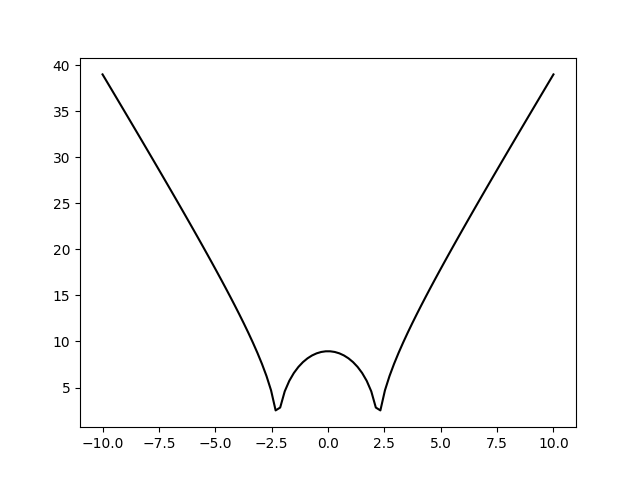
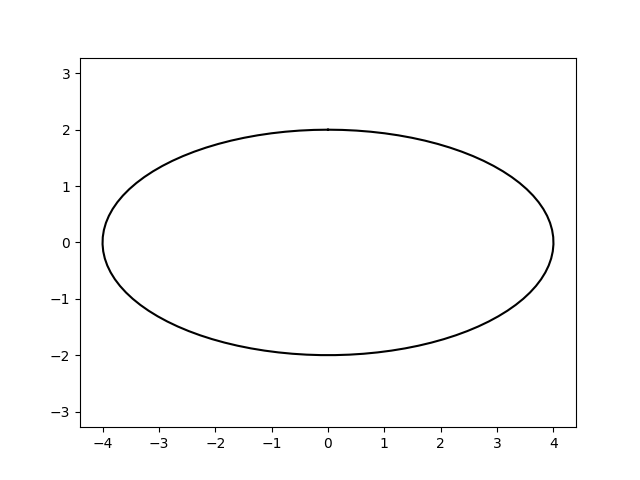
less6

diff --git a/task2.py b/task2.py
@@ -6,10 +6,10 @@ def hyper(x_min,x_max,N):
             polN = int(N/2)
             x1 = np.linspace(x_min, -0.01, polN)
             x2 = np.linspace(0.01, x_max, polN)
-            y = 1/x1
-            plt.plot(x1,y, color= 'k')
-            y = 1/x2
-            plt.plot(x2,y, color = 'k')
+            y1 = 1/x1
+            plt.plot(x1,y1, color= 'k')
+            y2 = 1/x2
+            plt.plot(x2,y2, color = 'k')
         elif (x_min >= 0) and (x_max != 0):
             if x_min != 0:
                 x = np.linspace(x_min, x_max, N)
@@ -38,9 +38,9 @@ def hyper(x_min,x_max,N):
 
 
 
-x_min = int(input('Введите X минимальное '))
-x_max = int(input('Введите X максимальное '))
-N = int(input('Введите количество точек '))
+x_min = int(input('Введите X минимальное ->  '))
+x_max = int(input('Введите X максимальное ->  '))
+N = int(input('Введите количество точек ->  '))
 
 
 

diff --git a/task3.py b/task3.py
@@ -1,10 +1,14 @@
 import matplotlib.pyplot as plt
 import numpy as np
+
 def ellips(x_min,x_max,N):
-       x = np.linspace(x_min, x_max, N)
-       y = abs((1-(x**2-a**2))*b**2)**0.5
+       m = np.linspace(0, 2*np.pi,N)
+       y = a * np.cos(m)
+       x = b * np.sin(m)
        plt.plot(x,y, color= 'k')
 a = 2
 b = 4
-ellips(-10,10,100)
+N = 100
+plt.axis('equal')
+ellips(a,b,N)
 plt.savefig('fig_3.png')

diff --git a/task4_4.py b/task4_4.py
@@ -1,0 +1,14 @@
+import matplotlib.pyplot as plt
+import numpy as np
+k = 1
+N = int(0.1)
+def rose(k,N):
+    u = np.linspace(0,8*np.pi,N)
+    r = np.sin(k*u)
+    x = r * np.cos(u)
+    y = r * np.sin(u)
+    plt.plot(x,y)
+        
+
+rose(k,N)
+plt.savefig('fig4_4.png')

diff --git a/task4_1.py b/task4_1.py
@@ -1,0 +1,12 @@
+import matplotlib.pyplot as plt
+import numpy as np
+k = 1
+b = 0.2
+N = 1000
+u = np.linspace(0, 8*np.pi,N)
+r = np.exp(b*u)
+x = r * np.cos(u)
+y = r * np.sin(u)
+
+plt.plot(x,y)
+plt.savefig('fig4_1.png')

diff --git a/task4_3.py b/task4_3.py
@@ -1,0 +1,11 @@
+import matplotlib.pyplot as plt
+import numpy as np
+k = 1
+N = 1000
+u = np.linspace(0.01, 8*np.pi,N)
+r = k/u**0.5
+x = r * np.cos(u)
+y = r * np.sin(u)
+
+plt.plot(x,y)
+plt.savefig('fig4_3.png')

diff --git a/task4_2.py b/task4_2.py
@@ -1,0 +1,11 @@
+import matplotlib.pyplot as plt
+import numpy as np
+k = 1
+N = 1000
+u = np.linspace(0, 8*np.pi,N)
+r = k*u
+x = r * np.cos(u)
+y = r * np.sin(u)
+
+plt.plot(x,y)
+plt.savefig('fig4_2.png')
